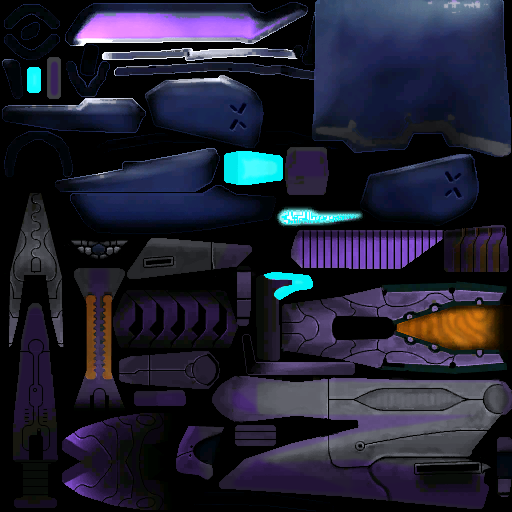
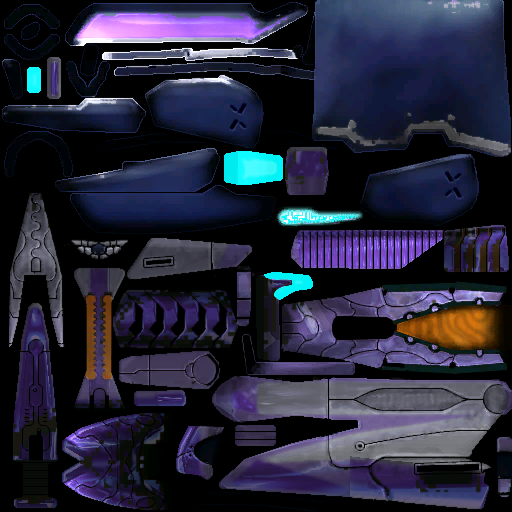
The Geist with the Elites' armour sheen
Halo's cube-map reflection baked into its hull as the Elites' armour has it (texmath.bake_reflection): the purple top in the blue and magenta rank cubes mixed, the grey underbelly in the silver one.

Claude-Session: https://claude.ai/code/session_01Ja8vbkayn83DPTjJrhXLXZ

diff --git a/generator/post/geist_skin.py b/generator/post/geist_skin.py
@@ -5,8 +5,11 @@
 import sys, numpy as np
 sys.path.insert(0, '/home/claude/repos/HaloCE-Enemies-HDE/generator/lib')
 from iqm import read_iqm
+from texmath import raster_normals, bake_reflection
 from PIL import Image, ImageDraw, ImageFilter
 PUR = np.array([0.50, 0.30, 0.80]); GRY = np.array([0.56, 0.57, 0.62])
+OUTM = '/home/claude/repos/HaloCE-Enemies-HDE/generator/out/models/Geist'
+CUBES = '/home/claude/repos/HaloCE-Enemies-HDE/generator/out/cubemaps/elite'
 J, M, A = read_iqm('/tmp/claude-0/sk/Geist_bind.iqm')
 for k in (0, 1):
     a = np.asarray(Image.open(f'/tmp/claude-0/sk/geist_geist_{k}_orig.png').convert('RGB')).astype(float) / 255
@@ -26,6 +29,16 @@ for k in (0, 1):
     col = PUR * top + GRY * (1 - top)
     col = np.clip(col * lum * 2.6, 0, 1)
     out = a * (1 - grey) + col * grey
+    # the Elites' look: Halo's liquid-metal cube-map sheen baked in (texmath.bake_reflection, as build_pack.add_shine does
+    # the Elites'), the blue rank cube on the purple, the silver one on the grey; under the Geist's own specular mask
+    # (its multipurpose map's red), raised on the hull plates so they gleam as the Elites' armour does
+    n = raster_normals(M, f'Geist_{k}.png', (W, H))
+    mp = np.asarray(Image.open(f'{OUTM}/Geist_{k}_multi.png').convert('RGBA').resize((W, H))).astype(np.float32)[..., 0] / 255
+    spec = np.clip(0.45 * mp + 0.25, 0, 0.6) * grey[..., 0]      # (only the recoloured hull: not the lights or the gun)
+    cube = lambda i: [np.asarray(Image.open(f'{CUBES}/{i}_{f}.png').convert('RGB').resize((256, 256), Image.BICUBIC)).astype(np.float32) / 255 for f in range(6)]
+    t = top[..., 0]
+    out = bake_reflection(out, n, spec * t, [(b + m) / 2 for b, m in zip(cube(0), cube(1))], 0.55)   # (the blue and magenta cubes mixed: purple)
+    out = bake_reflection(out, n, spec * (1 - t), cube(3), 0.4)
     Image.fromarray((out * 255).astype(np.uint8)).save(f'geist_geist_{k}.png')
 o = Image.new('RGB', (1024, 512))
 for k in (0, 1): o.paste(Image.open(f'geist_geist_{k}.png').resize((512, 512)), (k * 512, 0))

diff --git a/generator/post/README.md b/generator/post/README.md
@@ -5,7 +5,7 @@
 * `flood_grunt_ranks.py <Flood pack>`: the Flood Grunt's armour in Halo's Grunt rank colours (minor orange, major red,
   spec ops black) as `floodgrunt_<rank>_<n>.png`; `HCE_FloodGruntBase` picks one as it spawns (Ultra white is the skin as made).
 * `geist_skin.py`: the Geist in Covenant colours, a purple top and a grey underbelly by the facing of the model's own
-  triangles (reads the Geist IQM; writes its two skins). The Geist's IQM also had its animations' joints out of order
+  triangles, with the Elites' baked cube-map sheen (purple: the blue and magenta rank cubes mixed; grey: the silver) (reads the Geist IQM and its multipurpose maps; writes its two skins). The Geist's IQM also had its animations' joints out of order
   (the body flew apart): its animations are now its bind pose held, the gun swung down 75 degrees.
 * Ruby's armoured Flood Elites (FloodEliteArmored / Commander / Ultra): their flesh skins (`*_0`, `*_1`) are the Halo CE
   Flood Elite's (`FloodElite/skins/floodelite_floodelite_<n>.png`), their armour skins their own.
